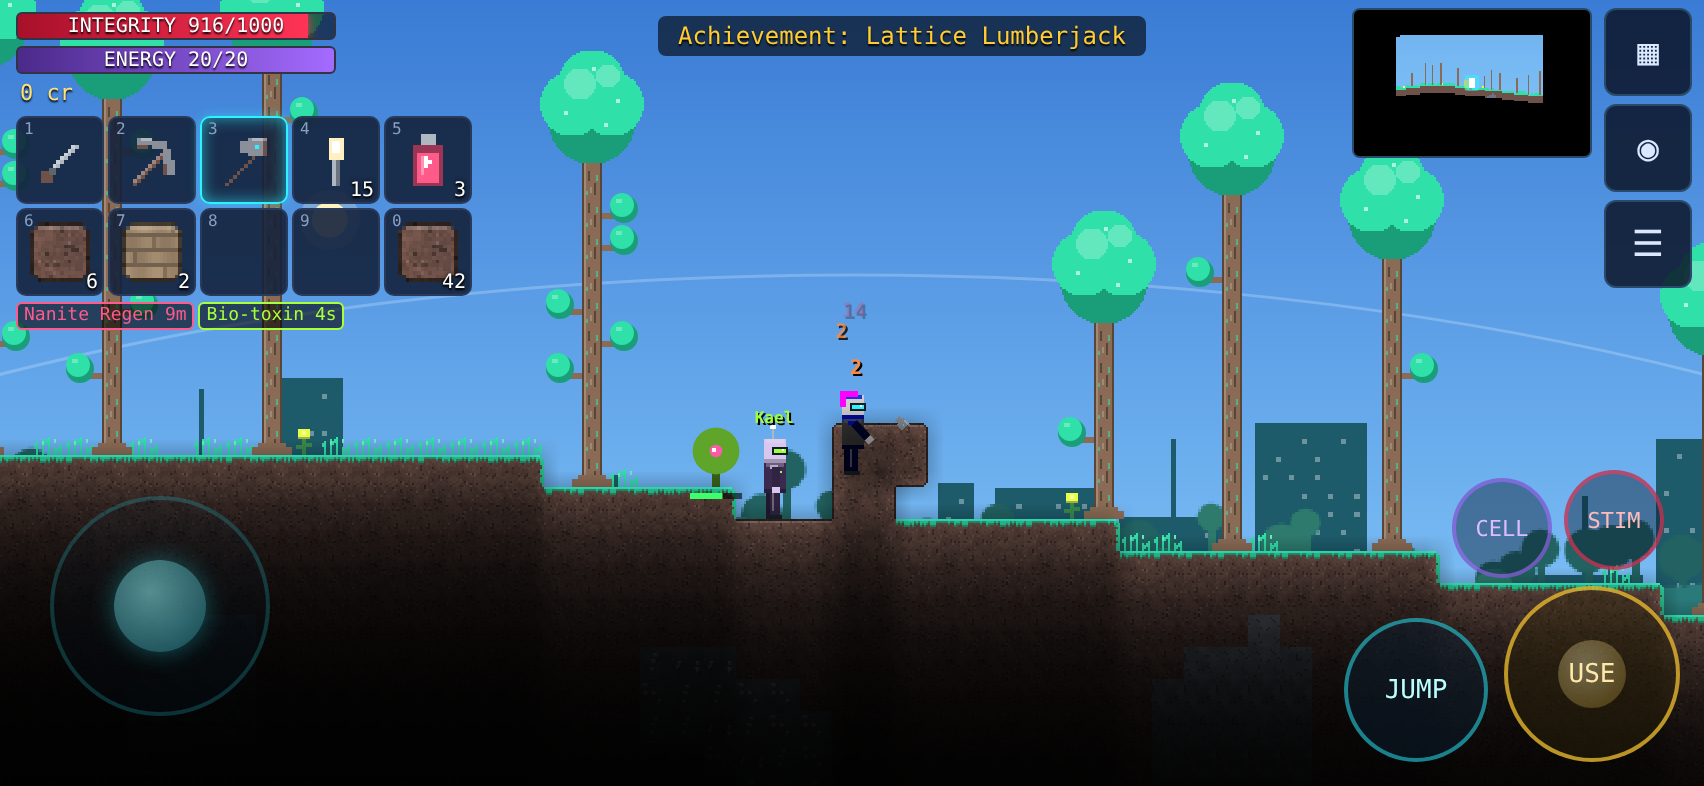
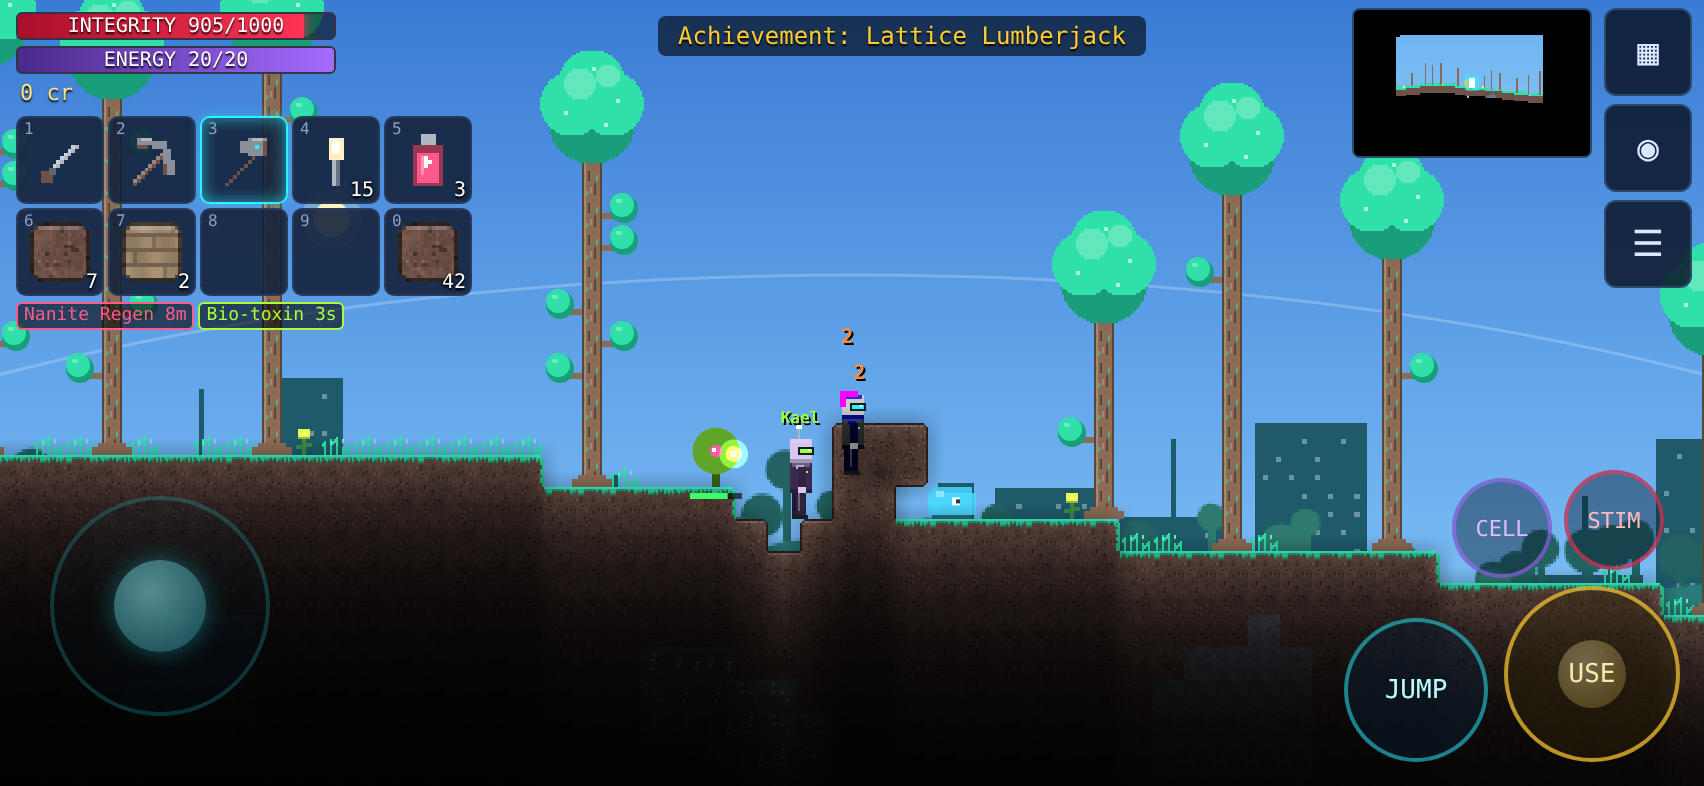
Fix side strip in unfolded landscape, sword facing, add iCloud backups
- Strip colour: treat a page narrower than the screen as a side strip
  first, measure the page with a full-page fixed probe instead of
  innerWidth/innerHeight, and re-check the layout every 500 ms because
  iOS doesn't always fire resize after rotating or unfolding
- USE smart aim no longer turns a walking player around to hit an enemy
  behind them; enemies ahead are preferred
- Back up all characters and worlds to one file through the share sheet
  (Save to Files -> iCloud Drive) from the title screen or pause menu,
  and restore from a backup file

Claude-Session: https://claude.ai/code/session_018ANiLkUK2GHtPLFT8B1mVB

diff --git a/src/ui/ui.js b/src/ui/ui.js
@@ -11,6 +11,7 @@ import { addItem, countItem, removeItem, sortInventory, maxStack, HOTBAR } from 
 import { COLONISTS } from '../game/town.js';
 import { WorldMap } from './map.js';
 import { ACHIEVEMENTS } from '../content/achievements.js';
+import { makeBackup, deliver } from '../core/backup.js';
 import { LORE } from '../content/lore.js';
 import { IMPLANT_SLOTS, IMPLANT_SLOT_NAMES } from '../content/items.js';
 import { capacity, usedCapacity, canInstall, activeImplant } from '../game/implants.js';
@@ -570,6 +571,16 @@ export class UI {
       case 'help': this.panel = 'help'; this.renderHelp(); return;
       case 'back': this.panel = 'pause'; this.renderPause(); return;
       case 'save': this.env.save().then(() => this.toast('Game saved', '#3dff6a')); return;
+      case 'backup': {
+        el.disabled = true; el.textContent = 'Preparing backup…';
+        this.env.save().then(() => makeBackup()).then((b) => {
+          // Sharing must start from a tap, so the prepared file gets its own button.
+          el.disabled = false; el.textContent = `Save to Files (${b.players} characters, ${b.worlds} worlds)`;
+          el.classList.add('primary');
+          el.onclick = (e) => { e.stopPropagation(); deliver(b.file).then((r) => { if (r !== 'cancelled') this.toast(r === 'shared' ? 'Backup ready — choose Save to Files → iCloud Drive' : 'Backup downloaded', '#3dff6a'); }); };
+        }).catch((err) => { el.disabled = false; el.textContent = 'Back up to iCloud / Files'; this.toast('Backup failed: ' + err.message, '#ff8fa8'); });
+        return;
+      }
       case 'quit': this.env.saveAndQuit(); return;
       default: this.pickAction(act);
     }
@@ -654,7 +665,7 @@ export class UI {
     const bosses = Object.keys(w.flags.bosses).length;
     const html = `<div class="win" style="width:min(360px,94vw)"><h2><span>PAUSED</span><button data-act="close">&times;</button></h2><div class="body">
       <div class="help">${esc(p.name)} · ${p.maxLife} max integrity · ${bosses} bosses defeated${w.flags.hardmode ? ' · <b>Singularity</b>' : ''}<br>${esc(w.name)} · Day ${w.day}</div>
-      <div class="menu-buttons" style="margin:10px auto"><button class="primary" data-act="resume">Resume</button><button data-act="help">Field Guide</button><button data-act="archive">Archive (${p.lore.length}/${LORE.length})</button><button data-act="achievements">Achievements (${p.achievements.size}/${ACHIEVEMENTS.length})</button><button data-act="settings">Settings</button><button data-act="save">Save</button><button data-act="quit">Save &amp; Exit</button></div></div></div>`;
+      <div class="menu-buttons" style="margin:10px auto"><button class="primary" data-act="resume">Resume</button><button data-act="help">Field Guide</button><button data-act="archive">Archive (${p.lore.length}/${LORE.length})</button><button data-act="achievements">Achievements (${p.achievements.size}/${ACHIEVEMENTS.length})</button><button data-act="settings">Settings</button><button data-act="save">Save</button><button data-act="backup">Back up to iCloud / Files</button><button data-act="quit">Save &amp; Exit</button></div></div></div>`;
     this.show(html); this.bindPanel();
   }
 
@@ -724,7 +735,7 @@ export const HELP_HTML = `
 <b>Cyberware.</b> Install implants at a Surgery Bay (or next to the Ripperdoc) into six body slots: Neural, Optics, Arms, Spine, Legs, Core. Each costs capacity; capacity grows with max integrity. Neural implants give an AUG ability: time dilation, drone command, machine hijacking or overdrive.<br><br>
 <b>Tech.</b> Beam weapons fire while held. Coilguns charge while held and fire on release. The Gravity Gun lifts enemies — release to throw them. The Wormhole Projector opens two linked portals. Quantum Beacons form a fast-travel network.<br><br>
 <b>iPhone Duo.</b> The layout follows the device: unfolded it uses the full inner display; folded like a book the controls stay clear of the fold; folded like a laptop the game sits on top with the controls below. Safari only reports the fold when its Device Posture and Viewport Segments feature flags are on (Settings → Apps → Safari → Advanced → Feature Flags); otherwise choose Settings → Fold layout.<br><br>
-<b>Saving.</b> The game autosaves every 2 minutes and when you leave. Use Share → Add to Home Screen to play full-screen and offline.`;
+<b>Saving.</b> The game autosaves every 2 minutes and when you leave. To keep a copy in iCloud, use Back up to iCloud / Files in the menu (or Saves &amp; iCloud Backup on the title screen) and choose Save to Files → iCloud Drive. Use Share → Add to Home Screen to play full-screen and offline.`;
 
 // What the browser reports about the screen, to diagnose layouts on new devices.
 function displayInfo() {

diff --git a/src/core/backup.js b/src/core/backup.js
@@ -1,0 +1,86 @@
+// Backups of every character and world as a single file. On iPhone the file goes through the
+// share sheet, where "Save to Files" puts it in iCloud Drive; restoring picks it back up from Files.
+import { store } from './storage.js';
+
+const FORMAT = 'neon-strata-backup';
+const TYPED = { Uint8Array, Uint16Array, Uint32Array, Int8Array, Int16Array, Int32Array, Float32Array, Float64Array, Uint8ClampedArray };
+
+function toB64(bytes) {
+  let s = '';
+  for (let i = 0; i < bytes.length; i += 0x8000) s += String.fromCharCode.apply(null, bytes.subarray(i, i + 0x8000));
+  return btoa(s);
+}
+function fromB64(b64) {
+  const s = atob(b64), out = new Uint8Array(s.length);
+  for (let i = 0; i < s.length; i++) out[i] = s.charCodeAt(i);
+  return out;
+}
+
+// IndexedDB keeps typed arrays, Maps and Sets; JSON doesn't, so tag them.
+function encode(v) {
+  if (ArrayBuffer.isView(v)) return { $t: v.constructor.name, b: toB64(new Uint8Array(v.buffer, v.byteOffset, v.byteLength)) };
+  if (v instanceof Map) return { $m: [...v.entries()].map(([k, x]) => [encode(k), encode(x)]) };
+  if (v instanceof Set) return { $s: [...v].map(encode) };
+  if (Array.isArray(v)) return v.map(encode);
+  if (v && typeof v === 'object') { const o = {}; for (const k in v) o[k] = encode(v[k]); return o; }
+  return v;
+}
+function decode(v) {
+  if (Array.isArray(v)) return v.map(decode);
+  if (v && typeof v === 'object') {
+    if (v.$t && TYPED[v.$t]) { const bytes = fromB64(v.b); return new TYPED[v.$t](bytes.buffer, 0, bytes.byteLength / TYPED[v.$t].BYTES_PER_ELEMENT); }
+    if (v.$m) return new Map(v.$m.map(([k, x]) => [decode(k), decode(x)]));
+    if (v.$s) return new Set(v.$s.map(decode));
+    const o = {}; for (const k in v) o[k] = decode(v[k]); return o;
+  }
+  return v;
+}
+
+async function gzip(text) {
+  if (typeof CompressionStream === 'undefined') return null;
+  const s = new Blob([text]).stream().pipeThrough(new CompressionStream('gzip'));
+  return new Uint8Array(await new Response(s).arrayBuffer());
+}
+async function gunzip(bytes) {
+  const s = new Blob([bytes]).stream().pipeThrough(new DecompressionStream('gzip'));
+  return new Response(s).text();
+}
+
+export async function makeBackup() {
+  const [players, worlds] = await Promise.all([store.all('players'), store.all('worlds')]);
+  const text = JSON.stringify({ format: FORMAT, version: 1, created: new Date().toISOString(), build: window.__neonBuild || null, players: encode(players), worlds: encode(worlds) });
+  const date = new Date().toISOString().slice(0, 10);
+  const gz = await gzip(text);
+  const file = gz
+    ? new File([gz], `neon-strata-${date}.neonsave`, { type: 'application/gzip' })
+    : new File([text], `neon-strata-${date}.json`, { type: 'application/json' });
+  return { file, players: players.length, worlds: worlds.length };
+}
+
+// Share sheet when available (iPhone: Save to Files → iCloud Drive), otherwise a download.
+export async function deliver(file) {
+  if (navigator.canShare && navigator.canShare({ files: [file] })) {
+    try { await navigator.share({ files: [file], title: 'Neon Strata saves' }); return 'shared'; } catch (e) {
+      if (e && e.name === 'AbortError') return 'cancelled';
+    }
+  }
+  const url = URL.createObjectURL(file);
+  const a = document.createElement('a');
+  a.href = url; a.download = file.name; document.body.appendChild(a); a.click(); a.remove();
+  setTimeout(() => URL.revokeObjectURL(url), 60000);
+  return 'downloaded';
+}
+
+export async function readBackup(file) {
+  const bytes = new Uint8Array(await file.arrayBuffer());
+  const text = bytes[0] === 0x1f && bytes[1] === 0x8b ? await gunzip(bytes) : new TextDecoder().decode(bytes);
+  const o = JSON.parse(text);
+  if (o.format !== FORMAT) throw new Error('This file is not a Neon Strata backup.');
+  return { players: decode(o.players) || [], worlds: decode(o.worlds) || [], created: o.created };
+}
+
+// Restores every character and world in the backup; copies with the same id are replaced.
+export async function restoreBackup(b) {
+  for (const p of b.players) await store.put('players', p);
+  for (const w of b.worlds) await store.put('worlds', w);
+}

diff --git a/src/ui/menus.js b/src/ui/menus.js
@@ -1,5 +1,6 @@
 // Title, character and world selection/creation screens.
 import { store } from '../core/storage.js';
+import { makeBackup, deliver, readBackup, restoreBackup } from '../core/backup.js';
 import { newPlayerData } from '../game/player.js';
 import { WORLD_SIZES } from '../world/worldgen.js';
 import { drawHumanoid } from '../gfx/sprites.js';
@@ -27,6 +28,7 @@ export class Menus {
       <div class="logo">NEON STRATA<small>DIG · BUILD · FIGHT · ASCEND</small></div>
       <div class="menu-buttons">
         <button class="primary" id="m-play">Play</button>
+        <button id="m-saves">Saves &amp; iCloud Backup</button>
         <button id="m-settings">Settings</button>
         <button id="m-help">Field Guide</button>
       </div>
@@ -35,7 +37,51 @@ export class Menus {
     $('#m-play').onclick = () => { this.env.audio.unlock(); this.env.audio.play('ui'); this.characters(); };
     $('#m-settings').onclick = () => { this.env.audio.unlock(); this.settings(); };
     $('#m-help').onclick = () => this.help();
+    $('#m-saves').onclick = () => { this.env.audio.unlock(); this.saves(); };
     this.env.audio.setTheme('title');
+  }
+
+  async saves(msg = '') {
+    const [players, worlds] = await Promise.all([store.all('players'), store.all('worlds')]);
+    $('#menu').innerHTML = `<div class="screen"><div class="card"><h3 style="margin:0 0 8px;color:#2ef2ff">Saves &amp; iCloud Backup</h3>
+      <div class="help">This device has ${players.length} character${players.length === 1 ? '' : 's'} and ${worlds.length} world${worlds.length === 1 ? '' : 's'}.<br>
+      <b>Back up:</b> creates one file with all of them. On iPhone, choose <b>Save to Files</b> in the share sheet, then <b>iCloud Drive</b>.<br>
+      <b>Restore:</b> pick a backup file from Files (iCloud Drive). Characters and worlds in it replace their older copies on this device; everything else stays.</div>
+      <div id="m-msg" style="font-size:12px;color:#3dff6a;min-height:16px;margin:6px 0">${esc(msg)}</div>
+      <div class="menu-buttons" style="margin:0 auto">
+        <button class="primary" id="m-export">Back up all saves</button>
+        <button id="m-import">Restore from backup</button>
+        <input type="file" id="m-file" style="display:none">
+        <button id="m-back">Back</button>
+      </div></div></div>`;
+    const note = (t, c = '#3dff6a') => { const m = $('#m-msg'); m.textContent = t; m.style.color = c; };
+    const exp = $('#m-export');
+    exp.onclick = async () => {
+      exp.disabled = true; exp.textContent = 'Preparing backup…';
+      try {
+        const b = await makeBackup();
+        // Sharing has to start from a tap, so the ready file gets its own button.
+        exp.disabled = false; exp.textContent = `Save to Files (${(b.file.size / 1048576).toFixed(1)} MB)`;
+        exp.onclick = async () => {
+          const r = await deliver(b.file);
+          if (r === 'shared') note('Done. If you chose Save to Files → iCloud Drive, the backup is in iCloud.');
+          else if (r === 'downloaded') note('Backup downloaded: ' + b.file.name);
+        };
+      } catch (e) { exp.disabled = false; exp.textContent = 'Back up all saves'; note('Backup failed: ' + e.message, '#ff8fa8'); }
+    };
+    $('#m-import').onclick = () => $('#m-file').click();
+    $('#m-file').onchange = async (e) => {
+      const f = e.target.files && e.target.files[0];
+      if (!f) return;
+      try {
+        const b = await readBackup(f);
+        const when = b.created ? new Date(b.created).toLocaleString() : 'an unknown date';
+        if (!confirm(`Restore ${b.players.length} character(s) and ${b.worlds.length} world(s) from ${when}? Older copies of them on this device will be replaced.`)) return;
+        await restoreBackup(b);
+        this.saves(`Restored ${b.players.length} character(s) and ${b.worlds.length} world(s).`);
+      } catch (err) { note('Could not restore: ' + err.message, '#ff8fa8'); }
+    };
+    $('#m-back').onclick = () => this.title();
   }
 
   settings() {

diff --git a/src/ui/layout.js b/src/ui/layout.js
@@ -18,6 +18,20 @@ const MQ = {
   folded: mq('(device-posture: folded)'),
 };
 
+// The size of the page as fixed-position content sees it. On iOS, innerWidth/innerHeight can lag
+// behind or differ from the area a full-page fixed element covers (for example right after
+// rotating), which would leave a band of page background uncovered.
+let pageProbe = null;
+export function pageSize() {
+  if (!pageProbe && document.body) {
+    pageProbe = document.createElement('div');
+    pageProbe.style.cssText = 'position:fixed;left:0;top:0;right:0;bottom:0;visibility:hidden;pointer-events:none;z-index:-1';
+    document.body.appendChild(pageProbe);
+  }
+  const r = pageProbe ? pageProbe.getBoundingClientRect() : null;
+  return r && r.width > 0 && r.height > 0 ? { W: Math.round(r.width), H: Math.round(r.height) } : { W: window.innerWidth, H: window.innerHeight };
+}
+
 let probe = null;
 function cssSegments() {
   const book = MQ.hseg && MQ.hseg.matches, laptop = MQ.vseg && MQ.vseg.matches;
@@ -61,7 +75,7 @@ function screenMiddle(W, H) {
 let lastFold = { mode: 'none' };
 // Everything the browser reports about the screen, shown in Settings for troubleshooting.
 window.__neonDisplay = () => {
-  const W = window.innerWidth, H = window.innerHeight, { sw, sh } = screenSize(W, H);
+  const { W, H } = pageSize(), { sw, sh } = screenSize(W, H);
   let ins = '?';
   try {
     const pr = document.createElement('div');
@@ -79,7 +93,7 @@ window.__neonDisplay = () => {
   const f = lastFold;
   return {
     Build: window.__neonBuild || '?',
-    Page: `${W} × ${H}`, Screen: `${sw} × ${sh}`, 'Pixel ratio': window.devicePixelRatio,
+    Page: `${W} × ${H} (inner ${window.innerWidth} × ${window.innerHeight})`, Screen: `${sw} × ${sh}`, 'Pixel ratio': window.devicePixelRatio,
     'Safe area (t/r/b/l)': ins, 'Display mode': dm + (navigator.standalone ? ' (Home Screen)' : ''),
     Posture: posture, Segments: segs,
     Fold: f.mode === 'book' ? `book at x=${Math.round(f.x)}` : f.mode === 'laptop' ? `laptop at y=${Math.round(f.y)}` : 'none',
@@ -87,7 +101,7 @@ window.__neonDisplay = () => {
 };
 
 export function detectFold(settings) {
-  const W = window.innerWidth, H = window.innerHeight;
+  const { W, H } = pageSize();
   const pref = settings.foldMode || 'auto';
   if (pref === 'off') return { mode: 'none' };
   const mid = screenMiddle(W, H);
@@ -119,7 +133,7 @@ export function detectFold(settings) {
 
 // Applies body classes and CSS variables. Returns the rectangle the game canvas should fill.
 export function applyLayout(settings) {
-  const W = window.innerWidth, H = window.innerHeight;
+  const { W, H } = pageSize();
   const fold = detectFold(settings);
   lastFold = fold;
   const b = document.body, st = document.documentElement.style;
@@ -166,4 +180,12 @@ export function watchLayout(onChange) {
   try { if (navigator.devicePosture) navigator.devicePosture.addEventListener('change', onChange); } catch (e) { /* ignore */ }
   try { if (window.viewport && window.viewport.addEventListener) window.viewport.addEventListener('segmentschange', onChange); } catch (e) { /* ignore */ }
   for (const m of Object.values(MQ)) try { if (m) m.addEventListener('change', onChange); } catch (e) { /* ignore */ }
+  // Safety net: iOS doesn't always fire resize when a rotation or fold settles.
+  let last = '';
+  setInterval(() => {
+    const { W, H } = pageSize();
+    const key = `${W}x${H}x${window.screen ? screen.width + 'x' + screen.height : ''}`;
+    if (last && key !== last) onChange();
+    last = key;
+  }, 500);
 }

diff --git a/src/game/smartaim.js b/src/game/smartaim.js
@@ -8,12 +8,18 @@ import { ITEMS } from '../content/items.js';
 
 const center = (x, y) => ({ x: x * TILE + TILE / 2, y: y * TILE + TILE / 2 });
 
-function nearestEnemy(game, p, maxDist) {
-  let best = null, bd = maxDist;
+// Nearest enemy, favoring the side the player faces. With `aheadOnly` (melee while walking),
+// enemies behind are ignored so the player never spins around mid-stride.
+function nearestEnemy(game, p, maxDist, aheadOnly = false) {
+  let best = null, bs = Infinity;
   for (const m of game.monsters) {
     if (m.dead || m.def.friendly || m.allied || m.grabbed) continue;
     const d = Math.hypot(m.cx - p.cx, m.cy - p.cy);
-    if (d < bd) { bd = d; best = m; }
+    if (d > maxDist) continue;
+    const behind = (m.cx - p.cx) * p.dir < -6;
+    if (behind && aheadOnly) continue;
+    const score = d + (behind ? maxDist * 0.6 : 0);
+    if (score < bs) { bs = score; best = m; }
   }
   return best;
 }
@@ -46,7 +52,7 @@ export function smartAim(game, p, drag, move) {
   const w = game.world;
 
   if (!it) {
-    const m = !steer && nearestEnemy(game, p, 60);
+    const m = !steer && nearestEnemy(game, p, 60, !!(move && Math.abs(move.x) > 0.3));
     return m ? { x: m.cx, y: m.cy } : along(40);
   }
   const reach = p.reachTiles(it);
@@ -117,7 +123,9 @@ export function smartAim(game, p, drag, move) {
   const tech = it.tech;
   const dist = tech && tech.kind === 'portal' ? Math.min(tech.range, 12) * TILE : tech && tech.kind === 'grab' ? 110 : 220;
   if (!steer && !it.fishing && !(tech && tech.kind === 'portal')) {
-    const m = nearestEnemy(game, p, it.useStyle === 'swing' || it.useStyle === 'thrust' ? 140 : 520);
+    const melee = it.useStyle === 'swing' || it.useStyle === 'thrust';
+    const walking = move && Math.abs(move.x) > 0.3;
+    const m = nearestEnemy(game, p, melee ? 140 : 520, melee && walking);
     if (m) return { x: m.cx, y: m.cy };
   }
   if (it.fishing && !steer) return { x: hand.x + p.dir * 120, y: hand.y - 60 };

diff --git a/src/ui/padding.js b/src/ui/padding.js
@@ -5,6 +5,8 @@
 // strip, and eases toward it so the strip doesn't flicker. A side strip can only take one color,
 // so it matches the upper part of the edge, beside the status icons: the sky in daylight, the dark
 // of night or the underground otherwise.
+import { pageSize } from './layout.js';
+
 const ROWS = 64;
 
 function dominant(data) {
@@ -29,11 +31,12 @@ export function startPadding(canvas, getState) {
   const tick = () => {
     if (!canvas.width || !canvas.height) return;
     const st = getState();
-    const W = window.innerWidth, H = window.innerHeight;
+    const { W, H } = pageSize();
     let sw = screen.width, sh = screen.height;
     if ((W > H) !== (sw > sh)) [sw, sh] = [sh, sw];
-    // Which edge has the strip: whichever dimension the page is short of, or a best guess.
-    const bottom = sh - H > 2 ? true : sw - W > 2 ? false : H > W && W >= 600;
+    // Which edge has the strip: a side strip if the page is narrower than the screen, a bottom
+    // strip if it is only shorter, otherwise a best guess.
+    const bottom = sw - W > 2 ? false : sh - H > 2 ? true : H > W && W >= 600;
     const cw = canvas.width, ch = canvas.height;
     let target;
     if (bottom) {

diff --git a/sw.js b/sw.js
@@ -1,5 +1,5 @@
 // Generated by tools/build-sw.mjs. Offline cache for the Neon Strata PWA.
-const CACHE = 'neon-strata-2a17912ca4';
+const CACHE = 'neon-strata-48f6e6860f';
 const FILES = [
   "./",
   "icons/apple-touch-icon.png",
@@ -19,6 +19,7 @@ const FILES = [
   "src/content/recipes.js",
   "src/content/tiles.js",
   "src/core/audio.js",
+  "src/core/backup.js",
   "src/core/input.js",
   "src/core/noise.js",
   "src/core/storage.js",

diff --git a/README.md b/README.md
@@ -52,6 +52,8 @@ Controls:
 - **Buttons:** JUMP, HOOK, STIM (quick heal), CELL (quick energy), DASH. RIDE appears when a vehicle is equipped, and AUG appears when a neural implant is installed.
 - **Top-right buttons:** inventory and crafting, map, and menu (field guide, Archive, achievements, settings, save).
 
+**Backups to iCloud:** on the title screen, open **Saves & iCloud Backup → Back up all saves → Save to Files** and choose **iCloud Drive**. You can also do this during play from **Menu → Back up to iCloud / Files**. **Restore from backup** picks the file back up from Files, for example on a new phone.
+
 Keyboard and mouse also work: WASD or arrows, Space, mouse, right-click to interact, 1–0 for the hotbar, E (inventory), M (map), F (hook), H (heal), J (energy), Shift (dash), R (ride) and Q (augment).
 
 ## Develop
@@ -74,7 +76,7 @@ Run `npm run build` after changing files so the service worker caches the new ve
 ### Code layout
 
 ```
-src/core     util, noise, input (touch + keyboard), audio synth, storage (IndexedDB)
+src/core     util, noise, input (touch + keyboard), audio synth, storage (IndexedDB), backups
 src/content  tiles, items, recipes, monsters, projectiles, buffs, loot, prefixes, achievements, lore
 src/world    world grid, procedural generator, lighting, liquids
 src/game     game loop, player, entities, AI, bosses, spawner, events, colonists, fishing,
